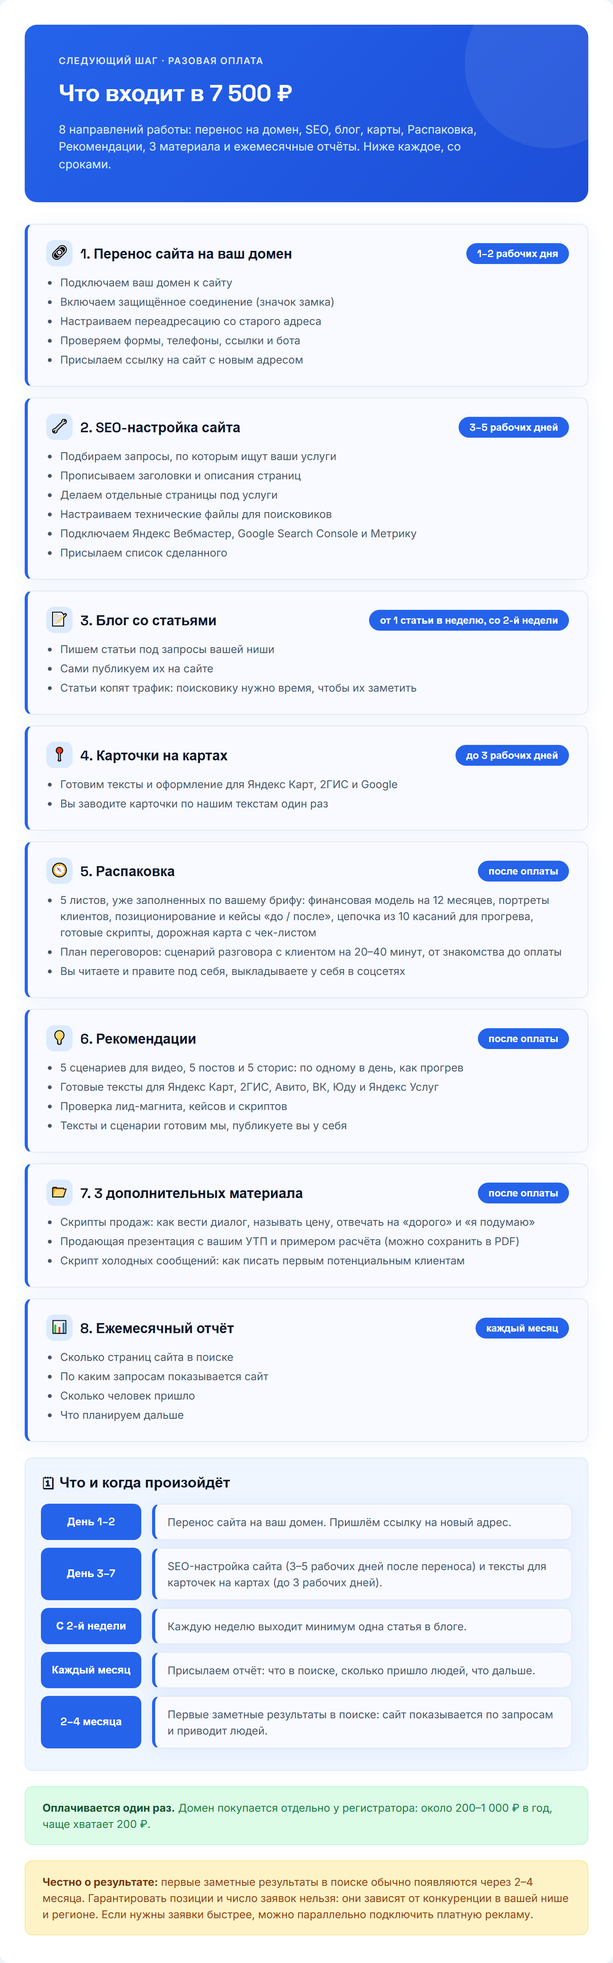
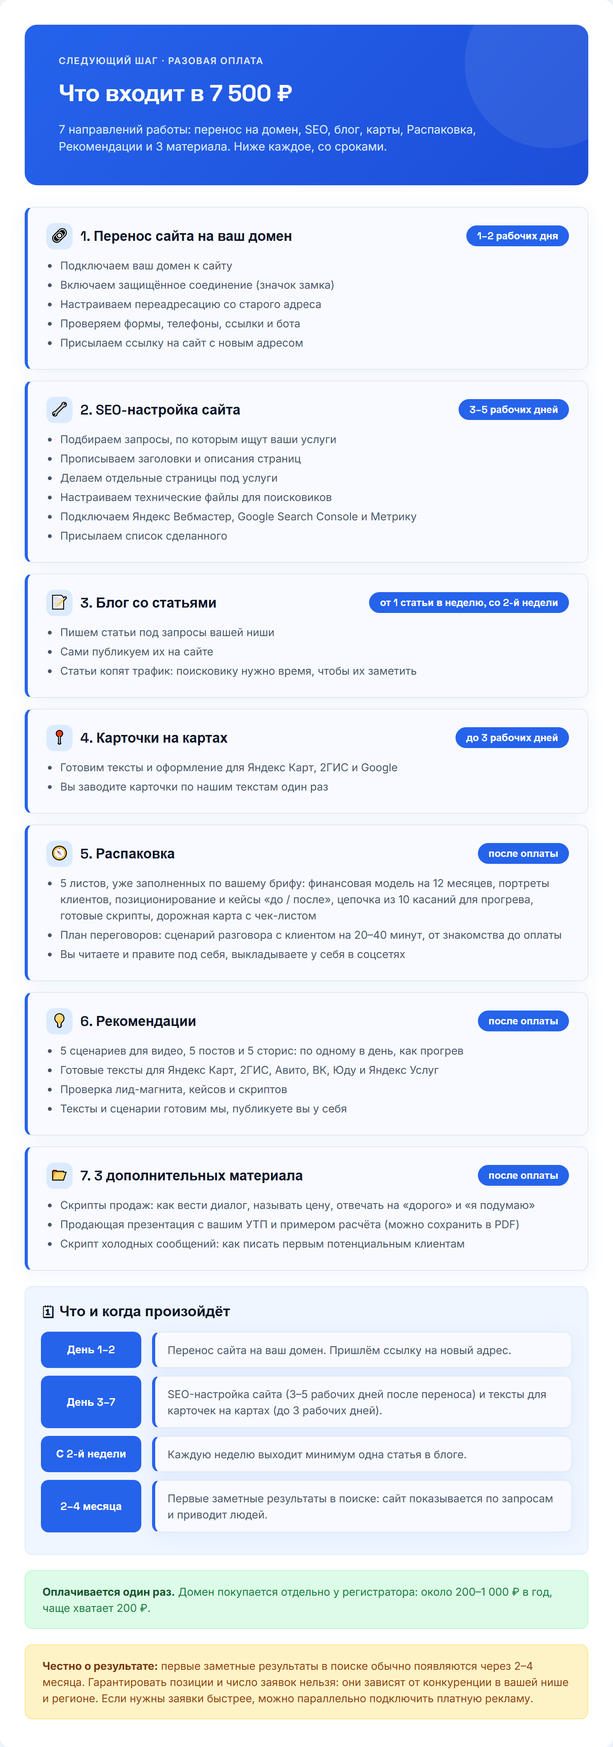
Remove monthly report from package

diff --git a/index.html b/index.html
@@ -139,9 +139,6 @@ pre{white-space:pre-wrap;word-wrap:break-word;font:14px/1.55 'Inter',sans-serif;
 7. Три дополнительных материала под ваш оффер — после оплаты
 Скрипты продаж (как вести диалог, называть цену, отвечать на «дорого» и «я подумаю»), продающая презентация с вашим УТП, скрипт холодных сообщений потенциальным клиентам.
 
-8. Ежемесячный отчёт
-Каждый месяц присылаем короткий отчёт: сколько страниц в поиске, по каким запросам показывается сайт, сколько человек пришло и что планируем дальше.
-
 ЗАЧЕМ СВОЙ ДОМЕН
 Адрес сайта — его фундамент: вся история, статьи и позиции копятся именно на нём. Свой домен принадлежит вам, внушает клиентам больше доверия и позволяет подключить фирменную почту. Подробно: https://murzzsite.github.io/domain-guide/
 Весь объём работ со скриншотами: https://murzzsite.github.io/seo-work-guide/
@@ -230,7 +227,7 @@ pre{white-space:pre-wrap;word-wrap:break-word;font:14px/1.55 'Inter',sans-serif;
 </section>
 </div>
 <script>
-const TEXTS=["Это рабочий чат — здесь будем вести ваш проект от сегодняшнего дня до поставленных задач.\n\nРады, что вы с нами 🙏","Ответьте на вопросы ниже — это нужно для точных целевых заявок. Нет ответа или не уверены — просто пропускайте. Можно голосовым.\n\n🏢 О БИЗНЕСЕ\n1. Сфера/ниша (напр.: психолог, брокер по новостройкам)\n2. Конкретное предложение — что продаёте (напр.: «Продвижение Instagram»)\n3. Город(а) работы\n4. Тип клиента: B2B / B2C / B2G\n\n📊 ПОКАЗАТЕЛИ\n5. Сколько клиентов сейчас в месяц (напр.: 5)\n6. Желаемая выручка в месяц (напр.: 700 000 ₽)\n7. Клиентский цикл (разовая покупка / подписка / долгий проект)\n\n💰 УСЛУГИ И ЦЕНЫ\n8. Список услуг с ценами, нумеруйте 8.1, 8.2...\nНапр.: 8.1 Курс — от 999 ₽, 8.2 Сессия 1.5ч — 7 500 ₽\n\n👤 АУДИТОРИЯ\n9. Портрет идеального клиента (напр.: «Женщины 25-35, Москва»)\n10. Главная боль аудитории (напр.: «Нет заявок с сайта»)\n11. Ключевое возражение (напр.: «Дорого»)\n12. Измеримый результат (напр.: «+40% заявок»)\n13. УТП (напр.: «Первый месяц бесплатно»)\n\n🔗 Ссылки: ВК, ТГ, Instagram, бот, сайт, YouTube/Рутуб","Пара терминов, которые будут встречаться в переписке — коротко объясняем:","Вот как человек проходит путь от поиска в Яндексе до обращения к вам.\n\nВажно: это путь через поисковое продвижение. Заявки приходят не мгновенно, а нарастают по мере того, как сайт набирает позиции.","Так будет работать бот: человек приходит по ссылке с сайта, проходит мини-игру, а в финале получает гайд. Задания и тексты согласуем с вами.","Здравствуйте! @{НИК_КЛИЕНТА}\n\nПосадочная страница/сайт: {ССЫЛКА_НА_САЙТ}\n\nЗаявки с сайта приходят в Telegram-бот — активируйте его по ссылке: {DEEP_LINK_БОТА}\n\n❗ Правки вносятся ТОЛЬКО один раз — соберите все в одно текстовое сообщение (скриншоты и голосовые не принимаются техспециалистом), если потребуется что-то поправить.\n\n❗ Если нужно добавить фото — присылайте ТОЛЬКО ссылкой на Яндекс.Диск с открытым доступом («доступно всем, у кого есть ссылка»), мы извлечём фото оттуда. По-другому техспециалист и программа файлы не принимают.\n\n❗ Когда напишете все правки, ОБЯЗАТЕЛЬНО добавьте фразу \"это всё\" — так мы поймём, что можно брать в работу.\n\nТакже нужно уточнить пару моментов:\n\n{УТОЧНЕНИЕ_1}\n{УТОЧНЕНИЕ_2}","Готов этап «Упаковка» — все материалы созданы.\n\nПожалуйста, посмотрите отчёт и напишите:\n«Принимаю» — если всё устраивает, переходим к следующему этапу","Здравствуйте! Предлагаем следующий шаг: перенести ваш сайт на собственный домен и запустить SEO-продвижение, чтобы заявки шли из поиска.\n\nСтоимость: 7 500 ₽, оплата разовая. В неё входит всё, что ниже (на картинке то же самое, со сроками).\n\nЧТО МЫ СДЕЛАЕМ\n\n1. Перенос сайта на ваш домен — 1–2 рабочих дня\nПодключим домен, включим защищённое соединение, настроим переадресацию со старого адреса, проверим формы, телефоны и бота. Пришлём ссылку на новый адрес.\n\n2. SEO-настройка — 3–5 рабочих дней после переноса\nПодберём запросы ваших клиентов, пропишем заголовки и описания, сделаем страницы под услуги, настроим технические файлы, подключим Яндекс Вебмастер, Google Search Console и Метрику. Пришлём список сделанного.\n\n3. Блог со статьями — от 1 статьи в неделю, начиная со 2-й недели\nСами пишем статьи под запросы вашей ниши и публикуем на сайте.\n\n4. Карточки на картах — до 3 рабочих дней\nТексты и оформление для Яндекс Карт, 2ГИС и Google.\n\n5. Распаковка — материалы получите после оплаты\nРабочая тетрадь из 5 листов, уже заполненная по вашему брифу: финансовая модель на 12 месяцев, портреты клиентов, позиционирование и кейсы, цепочка из 10 касаний для прогрева, готовые скрипты, дорожная карта. Плюс план переговоров: сценарий разговора с клиентом на 20–40 минут, от знакомства до оплаты. Вы читаете и правите под себя.\n\n6. Рекомендации — материалы получите после оплаты\n5 сценариев для видео, 5 готовых постов и 5 сторис (по одному в день, как прогрев), готовые тексты для Яндекс Карт, 2ГИС, Авито, ВК, Юду и Яндекс Услуг. Тексты и сценарии готовим мы, публикуете вы у себя. Если соцсетей пока нет, создайте их и начните с нашего контента.\n\n7. Три дополнительных материала под ваш оффер — после оплаты\nСкрипты продаж (как вести диалог, называть цену, отвечать на «дорого» и «я подумаю»), продающая презентация с вашим УТП, скрипт холодных сообщений потенциальным клиентам.\n\n8. Ежемесячный отчёт\nКаждый месяц присылаем короткий отчёт: сколько страниц в поиске, по каким запросам показывается сайт, сколько человек пришло и что планируем дальше.\n\nЗАЧЕМ СВОЙ ДОМЕН\nАдрес сайта — его фундамент: вся история, статьи и позиции копятся именно на нём. Свой домен принадлежит вам, внушает клиентам больше доверия и позволяет подключить фирменную почту. Подробно: https://murzzsite.github.io/domain-guide/\nВесь объём работ со скриншотами: https://murzzsite.github.io/seo-work-guide/\n\nЧЕСТНО О РЕЗУЛЬТАТЕ\nПервые заметные результаты в поиске обычно появляются через 2–4 месяца. Гарантировать позиции и число заявок нельзя: они зависят от конкуренции в вашей нише и регионе.\n\nХотите заявки уже в первые дни?\n— Яндекс Директ (реклама для тех, кто уже ищет вашу услугу): https://murzzsite.github.io/direct-guide/\n— VK Реклама (показ по интересам и возрасту во ВКонтакте): https://murzzsite.github.io/vk-ads-guide/\n\nЧТО ПО ОПЛАТЕ\n7 500 ₽ — разовая оплата за всё перечисленное выше. Домен оплачивается отдельно напрямую у регистратора, примерно 200–1 000 ₽ в год (чаще всего хватает 200 ₽). Порядок такой: оплата, затем покупка домена и перенос.\n\nЕсли вам подходит, напишите слово «домен» в ответ на это сообщение, и мы начнём.","Отлично, начинаем! 🙌\n\nОплатить перенос сайта и SEO-продвижение (7 500 ₽, оплата разовая) можно по ссылке: {ССЫЛКА_НА_ОПЛАТУ}\n\nВышлите чек в чат, как проведёте оплату, мы добавим в этот чат технического специалиста. Он поможет подобрать и зарегистрировать домен и сам перенесёт сайт. От вас потребуется только выбрать название. Домен оплачивается отдельно у регистратора, программист подскажет, где выгоднее.","Следующий шаг — купить домен на reg.ru. Домен оформляется на вас, это 10–15 минут.\n\nЗаранее предупреждаем: понадобятся Госуслуги. По Федеральному закону от 29.12.2025 № 569-ФЗ владелец домена в зонах .ru и .рф подтверждает личность через подтверждённую учётную запись Госуслуг (ЕСИА) — так государство исключает анонимные домены. Reg.ru может запросить это при покупке или позже, при продлении, поэтому подготовьте аккаунт Госуслуг и телефон заранее. Пароль от Госуслуг нам не нужен, не присылайте его никому: проверку вы проходите сами.\n\nПошаговая инструкция со всеми шагами: https://murzzsite.github.io/regru-guide/\n\nКоротко:\n1. Зайдите на reg.ru, найдите свободный адрес (лучше короткий, латиницей, зона .ru — около 200 ₽ в год).\n2. Добавьте домен в корзину, лишние услуги (хостинг, почту, защиту) уберите — они не нужны.\n3. Зарегистрируйтесь, заполните данные владельца, подтвердите личность через Госуслуги и оплатите.\n4. Пришлите сюда в чат логин и пароль от личного кабинета reg.ru и купленный адрес — программист сам подключит к нему ваш сайт.\n\nПосле переноса рекомендуем сменить пароль в кабинете reg.ru. Перенос занимает 1–2 рабочих дня с момента получения доступа.","Что нужно сделать дальше:\n\n1. Зарегистрируйтесь в личном кабинете по ссылке:\n{ССЫЛКА_НА_ПЛАТФОРМУ}\n\nИнвайт-код: {ИНВАЙТ_КОД}\n\n2. После регистрации подтвердите аккаунт через e-mail и пришлите нам логин и пароль — чтобы мы подключили ваш проект.\n\n3. Прикрепите в личном кабинете подписанный акт — без него кабинет остаётся заблокирован.\n\n4. В кабинете вы увидите раздел «Распаковка», рекомендации и отчёты по задачам.","Прикрепляем короткое видео, как работать в личном кабинете:\n{ССЫЛКА_НА_ПЛАТФОРМУ}\n\nЧто в видео:\n\n— Раздел «Распаковка» — фундамент: кто ваш клиент, чем вы отличаетесь, как продаёте.\nЧерновики уже готовы, нужно только поправить под себя.\n\n— Блок рекомендаций — что публиковать и куда, и как прикладывать отчёты.\n\nПосмотрите один раз полностью — дальше будет легко ориентироваться самим.\n\nПосле просмотра:\n1. Начните проходить задачи в блоке рекомендаций по порядку\n2. Прикладывайте отчёты к выполненным задачам — так быстрее проверим\n\nВопросы — пишите сюда 🙂","Если захотите получать заявки быстрее, чем набирает вес SEO, можно параллельно подключить платные каналы — это отдельный бюджет, подключаем только по вашему желанию.\n\nСписок и цены — на картинке. Пишите — согласуем и запустим."];
+const TEXTS=["Это рабочий чат — здесь будем вести ваш проект от сегодняшнего дня до поставленных задач.\n\nРады, что вы с нами 🙏","Ответьте на вопросы ниже — это нужно для точных целевых заявок. Нет ответа или не уверены — просто пропускайте. Можно голосовым.\n\n🏢 О БИЗНЕСЕ\n1. Сфера/ниша (напр.: психолог, брокер по новостройкам)\n2. Конкретное предложение — что продаёте (напр.: «Продвижение Instagram»)\n3. Город(а) работы\n4. Тип клиента: B2B / B2C / B2G\n\n📊 ПОКАЗАТЕЛИ\n5. Сколько клиентов сейчас в месяц (напр.: 5)\n6. Желаемая выручка в месяц (напр.: 700 000 ₽)\n7. Клиентский цикл (разовая покупка / подписка / долгий проект)\n\n💰 УСЛУГИ И ЦЕНЫ\n8. Список услуг с ценами, нумеруйте 8.1, 8.2...\nНапр.: 8.1 Курс — от 999 ₽, 8.2 Сессия 1.5ч — 7 500 ₽\n\n👤 АУДИТОРИЯ\n9. Портрет идеального клиента (напр.: «Женщины 25-35, Москва»)\n10. Главная боль аудитории (напр.: «Нет заявок с сайта»)\n11. Ключевое возражение (напр.: «Дорого»)\n12. Измеримый результат (напр.: «+40% заявок»)\n13. УТП (напр.: «Первый месяц бесплатно»)\n\n🔗 Ссылки: ВК, ТГ, Instagram, бот, сайт, YouTube/Рутуб","Пара терминов, которые будут встречаться в переписке — коротко объясняем:","Вот как человек проходит путь от поиска в Яндексе до обращения к вам.\n\nВажно: это путь через поисковое продвижение. Заявки приходят не мгновенно, а нарастают по мере того, как сайт набирает позиции.","Так будет работать бот: человек приходит по ссылке с сайта, проходит мини-игру, а в финале получает гайд. Задания и тексты согласуем с вами.","Здравствуйте! @{НИК_КЛИЕНТА}\n\nПосадочная страница/сайт: {ССЫЛКА_НА_САЙТ}\n\nЗаявки с сайта приходят в Telegram-бот — активируйте его по ссылке: {DEEP_LINK_БОТА}\n\n❗ Правки вносятся ТОЛЬКО один раз — соберите все в одно текстовое сообщение (скриншоты и голосовые не принимаются техспециалистом), если потребуется что-то поправить.\n\n❗ Если нужно добавить фото — присылайте ТОЛЬКО ссылкой на Яндекс.Диск с открытым доступом («доступно всем, у кого есть ссылка»), мы извлечём фото оттуда. По-другому техспециалист и программа файлы не принимают.\n\n❗ Когда напишете все правки, ОБЯЗАТЕЛЬНО добавьте фразу \"это всё\" — так мы поймём, что можно брать в работу.\n\nТакже нужно уточнить пару моментов:\n\n{УТОЧНЕНИЕ_1}\n{УТОЧНЕНИЕ_2}","Готов этап «Упаковка» — все материалы созданы.\n\nПожалуйста, посмотрите отчёт и напишите:\n«Принимаю» — если всё устраивает, переходим к следующему этапу","Здравствуйте! Предлагаем следующий шаг: перенести ваш сайт на собственный домен и запустить SEO-продвижение, чтобы заявки шли из поиска.\n\nСтоимость: 7 500 ₽, оплата разовая. В неё входит всё, что ниже (на картинке то же самое, со сроками).\n\nЧТО МЫ СДЕЛАЕМ\n\n1. Перенос сайта на ваш домен — 1–2 рабочих дня\nПодключим домен, включим защищённое соединение, настроим переадресацию со старого адреса, проверим формы, телефоны и бота. Пришлём ссылку на новый адрес.\n\n2. SEO-настройка — 3–5 рабочих дней после переноса\nПодберём запросы ваших клиентов, пропишем заголовки и описания, сделаем страницы под услуги, настроим технические файлы, подключим Яндекс Вебмастер, Google Search Console и Метрику. Пришлём список сделанного.\n\n3. Блог со статьями — от 1 статьи в неделю, начиная со 2-й недели\nСами пишем статьи под запросы вашей ниши и публикуем на сайте.\n\n4. Карточки на картах — до 3 рабочих дней\nТексты и оформление для Яндекс Карт, 2ГИС и Google.\n\n5. Распаковка — материалы получите после оплаты\nРабочая тетрадь из 5 листов, уже заполненная по вашему брифу: финансовая модель на 12 месяцев, портреты клиентов, позиционирование и кейсы, цепочка из 10 касаний для прогрева, готовые скрипты, дорожная карта. Плюс план переговоров: сценарий разговора с клиентом на 20–40 минут, от знакомства до оплаты. Вы читаете и правите под себя.\n\n6. Рекомендации — материалы получите после оплаты\n5 сценариев для видео, 5 готовых постов и 5 сторис (по одному в день, как прогрев), готовые тексты для Яндекс Карт, 2ГИС, Авито, ВК, Юду и Яндекс Услуг. Тексты и сценарии готовим мы, публикуете вы у себя. Если соцсетей пока нет, создайте их и начните с нашего контента.\n\n7. Три дополнительных материала под ваш оффер — после оплаты\nСкрипты продаж (как вести диалог, называть цену, отвечать на «дорого» и «я подумаю»), продающая презентация с вашим УТП, скрипт холодных сообщений потенциальным клиентам.\n\nЗАЧЕМ СВОЙ ДОМЕН\nАдрес сайта — его фундамент: вся история, статьи и позиции копятся именно на нём. Свой домен принадлежит вам, внушает клиентам больше доверия и позволяет подключить фирменную почту. Подробно: https://murzzsite.github.io/domain-guide/\nВесь объём работ со скриншотами: https://murzzsite.github.io/seo-work-guide/\n\nЧЕСТНО О РЕЗУЛЬТАТЕ\nПервые заметные результаты в поиске обычно появляются через 2–4 месяца. Гарантировать позиции и число заявок нельзя: они зависят от конкуренции в вашей нише и регионе.\n\nХотите заявки уже в первые дни?\n— Яндекс Директ (реклама для тех, кто уже ищет вашу услугу): https://murzzsite.github.io/direct-guide/\n— VK Реклама (показ по интересам и возрасту во ВКонтакте): https://murzzsite.github.io/vk-ads-guide/\n\nЧТО ПО ОПЛАТЕ\n7 500 ₽ — разовая оплата за всё перечисленное выше. Домен оплачивается отдельно напрямую у регистратора, примерно 200–1 000 ₽ в год (чаще всего хватает 200 ₽). Порядок такой: оплата, затем покупка домена и перенос.\n\nЕсли вам подходит, напишите слово «домен» в ответ на это сообщение, и мы начнём.","Отлично, начинаем! 🙌\n\nОплатить перенос сайта и SEO-продвижение (7 500 ₽, оплата разовая) можно по ссылке: {ССЫЛКА_НА_ОПЛАТУ}\n\nВышлите чек в чат, как проведёте оплату, мы добавим в этот чат технического специалиста. Он поможет подобрать и зарегистрировать домен и сам перенесёт сайт. От вас потребуется только выбрать название. Домен оплачивается отдельно у регистратора, программист подскажет, где выгоднее.","Следующий шаг — купить домен на reg.ru. Домен оформляется на вас, это 10–15 минут.\n\nЗаранее предупреждаем: понадобятся Госуслуги. По Федеральному закону от 29.12.2025 № 569-ФЗ владелец домена в зонах .ru и .рф подтверждает личность через подтверждённую учётную запись Госуслуг (ЕСИА) — так государство исключает анонимные домены. Reg.ru может запросить это при покупке или позже, при продлении, поэтому подготовьте аккаунт Госуслуг и телефон заранее. Пароль от Госуслуг нам не нужен, не присылайте его никому: проверку вы проходите сами.\n\nПошаговая инструкция со всеми шагами: https://murzzsite.github.io/regru-guide/\n\nКоротко:\n1. Зайдите на reg.ru, найдите свободный адрес (лучше короткий, латиницей, зона .ru — около 200 ₽ в год).\n2. Добавьте домен в корзину, лишние услуги (хостинг, почту, защиту) уберите — они не нужны.\n3. Зарегистрируйтесь, заполните данные владельца, подтвердите личность через Госуслуги и оплатите.\n4. Пришлите сюда в чат логин и пароль от личного кабинета reg.ru и купленный адрес — программист сам подключит к нему ваш сайт.\n\nПосле переноса рекомендуем сменить пароль в кабинете reg.ru. Перенос занимает 1–2 рабочих дня с момента получения доступа.","Что нужно сделать дальше:\n\n1. Зарегистрируйтесь в личном кабинете по ссылке:\n{ССЫЛКА_НА_ПЛАТФОРМУ}\n\nИнвайт-код: {ИНВАЙТ_КОД}\n\n2. После регистрации подтвердите аккаунт через e-mail и пришлите нам логин и пароль — чтобы мы подключили ваш проект.\n\n3. Прикрепите в личном кабинете подписанный акт — без него кабинет остаётся заблокирован.\n\n4. В кабинете вы увидите раздел «Распаковка», рекомендации и отчёты по задачам.","Прикрепляем короткое видео, как работать в личном кабинете:\n{ССЫЛКА_НА_ПЛАТФОРМУ}\n\nЧто в видео:\n\n— Раздел «Распаковка» — фундамент: кто ваш клиент, чем вы отличаетесь, как продаёте.\nЧерновики уже готовы, нужно только поправить под себя.\n\n— Блок рекомендаций — что публиковать и куда, и как прикладывать отчёты.\n\nПосмотрите один раз полностью — дальше будет легко ориентироваться самим.\n\nПосле просмотра:\n1. Начните проходить задачи в блоке рекомендаций по порядку\n2. Прикладывайте отчёты к выполненным задачам — так быстрее проверим\n\nВопросы — пишите сюда 🙂","Если захотите получать заявки быстрее, чем набирает вес SEO, можно параллельно подключить платные каналы — это отдельный бюджет, подключаем только по вашему желанию.\n\nСписок и цены — на картинке. Пишите — согласуем и запустим."];
 document.querySelectorAll('.btn').forEach(b=>b.onclick=async()=>{
   const t=TEXTS[b.dataset.i];
   try{await navigator.clipboard.writeText(t);b.textContent='Скопировано ✓';}
